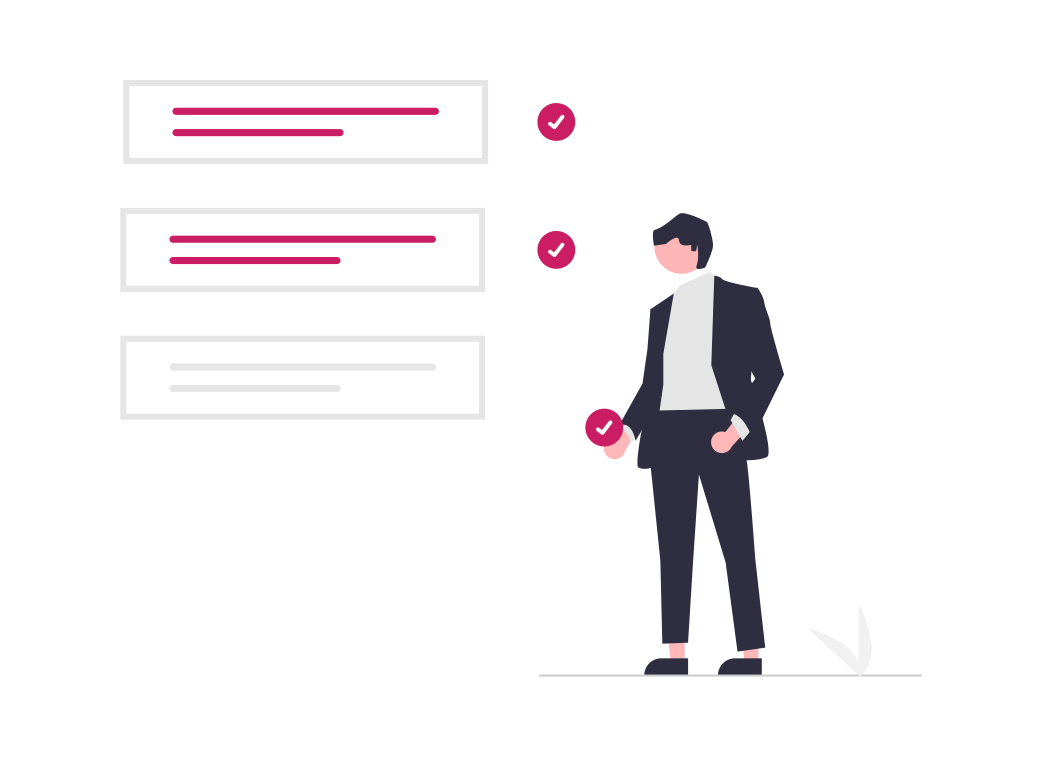
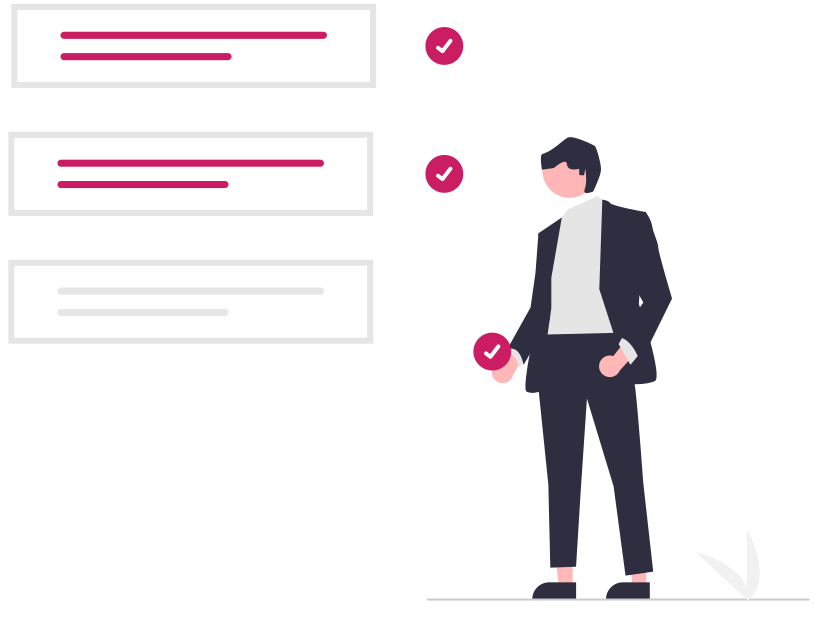
building serach bar and styling authpage

Changed region(s): [[0.0, 0.0, 0.5835, 0.5739], [0.5221, 0.2114, 1.0, 0.9666]]

diff --git a/app/signIn/page.tsx b/app/signIn/page.tsx
@@ -12,6 +12,8 @@ import { useRouter } from 'next/navigation';
 import toast, { Toaster } from 'react-hot-toast'
 import axios from 'axios';
 import { signIn } from 'next-auth/react';
+import Image from 'next/image';
+import authImage from '../assets/issue tracker.png'
 
 
 type signUpFormData = z.infer<typeof signUpFormSchema>
@@ -59,9 +61,13 @@ const AuthForm = () => {
 
     return (
         <>
-            < Grid columns={{ initial: '1', md: '2' }}>
-                <div className='hidden lg:inline-grid'>
-                    <div> ghddhdshbsdnsdff</div>
+            < Grid columns={{ initial: '1', md: '2' }} gap={'10'}>
+                <div className='hidden lg:grid lg:grid-cols-[2rem, 8fr]'>
+                    <Image
+                        src={authImage}
+                        width={500}
+                        height={500}
+                        alt='add new issue page' />
                 </div>
                 <div className='flex justify-center items-center content-center'>
                     <Tabs.Root
@@ -70,10 +76,10 @@ const AuthForm = () => {
                     >
                         <GoogleSignInButton>SignIn with Google</GoogleSignInButton>
 
-                        <div className='relative flex mb-4 items-center'>
-                            <div className='flex-grow border-t border-gray-400'></div>
-                            <span className='flex-shrink mx-2 italic text-sm text-gray-400'>or</span>
-                            <div className='flex-grow border-t border-gray-400'></div>
+                        <div className='relative flex  px-10 mb-4 items-center'>
+                            <div className='flex-grow border-t border-gray-300'></div>
+                            <span className='flex-shrink mx-2 italic text-sm text-gray-300'>or</span>
+                            <div className='flex-grow border-t border-gray-300'></div>
                         </div>
 
                         <Tabs.List className="flex transition-all duration-200" aria-label="Manage your account">

diff --git a/app/issues/issueList/page.tsx b/app/issues/issueList/page.tsx
@@ -3,7 +3,9 @@ import { PrismaClient, Status } from '@prisma/client'
 import IssueActions from './IssueActionButtons'
 import Pagination from '@/app/components/Pagination'
 import IssueTable, { columnNames, IssueQuery } from './IssueTable'
-import { Flex } from '@radix-ui/themes'
+import { Box, Flex, Grid } from '@radix-ui/themes'
+import issueListImage from '../../assets/completed.png'
+import Image from 'next/image'
 
 const prisma = new PrismaClient()
 
@@ -48,11 +50,20 @@ const IssuesPage = async ({ searchParams }: Props) => {
   })
 
   return (
-    <Flex direction={'column'} gap={'4'} className='max-w-xl'>
-      <IssueActions />
-      <IssueTable searchParams={searchParams} issues={issues} />
-      <Pagination itemCount={issueCount} currentPage={page} pageSize={pageSize} />
-    </Flex>
+    <Grid columns={{ initial: '1', md: '2' }} className='p-7'>
+      <Flex direction={'column'} gap={'4'} className='max-w-2xl'>
+        <IssueActions />
+        <IssueTable searchParams={searchParams} issues={issues} />
+        <Pagination itemCount={issueCount} currentPage={page} pageSize={pageSize} />
+      </Flex>
+      <Flex className='lg:hidden object-contain justify-center items-center ml-12'>
+        <Image
+          src={issueListImage}
+          width={500}
+          height={500}
+          alt='add new issue page' />
+      </Flex>
+    </Grid>
   )
 }
 

diff --git a/app/NavBar.tsx b/app/NavBar.tsx
@@ -7,8 +7,7 @@ import { usePathname } from 'next/navigation';
 import React from 'react'
 import { GoIssueTracks } from "react-icons/go";
 import { Skeleton } from '@/app/components';
-import { RxAvatar } from "react-icons/rx";
-
+import SearchBar from './components/SearchBar';
 
 
 const NavBar = () => {
@@ -21,6 +20,7 @@ const NavBar = () => {
                         <Link href="/"><GoIssueTracks style={{ fill: 'var(--accent-9)' }} /></Link>
                         <NavLinks />
                     </Flex>
+                    <SearchBar />
                     <AuthStatus />
                 </Flex>
             </Container>
@@ -54,7 +54,7 @@ const AuthStatus = () => {
     //access auth session, i.e signin signout
     const { status, data: session } = useSession();
 
-    if (status === 'loading') return <Skeleton width={'2rem'} height={'2rem'} borderRadius={'100%'} />;
+    if (status === 'loading') return <Skeleton width={'2rem'} height={'1rem'} />;
 
 
     return (

diff --git a/app/issues/[id]/loading.tsx b/app/issues/[id]/loading.tsx
@@ -4,8 +4,8 @@ import { Skeleton } from '@/app/components'
 
 const loadingIssueDetailsPage = () => {
     return (
-        <Box className='max-w-xl'>
-            <Skeleton />
+        <Box className='max-w-xl p-7'>
+            < Skeleton />
             <Flex gap='3' my='2'>
                 {/* bagde */}
                 <Skeleton width='5rem' />
@@ -15,7 +15,7 @@ const loadingIssueDetailsPage = () => {
             <Card className='prose' mt='4'>
                 <Skeleton count={3} />
             </Card>
-        </Box>
+        </Box >
     )
 }
 

diff --git a/app/issues/new/page.tsx b/app/issues/new/page.tsx
@@ -18,12 +18,14 @@ const newIssuePage = () => {
   return (
     <Grid columns={{ initial: '1', md: '2' }}>
       <IssueForm />
-      <Image className='justify-left items-right align-middle'
-        src={newIssueImage}
-        width={500}
-        height={500}
-        alt='add new issue page'
-      />
+      <div className='justify-left items-right align-middle object-contain'>
+        <Image
+          src={newIssueImage}
+          width={500}
+          height={500}
+          alt='add new issue page'
+        />
+      </div>
     </Grid>
 
   )

diff --git a/app/page.tsx b/app/page.tsx
@@ -20,7 +20,7 @@ export default async function Home() {
   const closed = await prisma.issue.count({ where: { status: 'CLOSED' } })
 
   return (
-    <>
+    <div className='p-7'>
       <Heading mb={'8'}>Welcome{session && <Em>{`, ${session.user!.name}`}</Em>}</Heading>
       {/* <IssuePieChart open={open} inProgress={inProgress} closed={closed}/> */}
       <Grid columns={{ initial: '1', md: '2' }} gap={'5'}>
@@ -30,6 +30,6 @@ export default async function Home() {
         </Flex>
         <LatestIssues />
       </Grid>
-    </>
+    </div>
   )
 }

diff --git a/app/components/SearchBar.tsx b/app/components/SearchBar.tsx
@@ -1,0 +1,17 @@
+import { TextField } from '@radix-ui/themes'
+import React from 'react'
+import { HiMiniMagnifyingGlass } from "react-icons/hi2";
+
+const SearchBar = () => {
+    return (
+        <div className='flex-grow mx-32'>
+            <TextField.Root placeholder="Search issues…">
+                <TextField.Slot>
+                    <HiMiniMagnifyingGlass height="16" width="16" />
+                </TextField.Slot>
+            </TextField.Root>
+        </div>
+    )
+}
+
+export default SearchBar

diff --git a/app/issues/_components/IssueFormSkeleton.tsx b/app/issues/_components/IssueFormSkeleton.tsx
@@ -4,10 +4,10 @@ import { Skeleton } from '@/app/components';
 
 const IssueFormSkeleton = () => {
     return (
-        <Box className='max-w-xl'>
-            <Skeleton height='3rem' />
-            <Skeleton height="20rem" />
-        </Box>
+        <Box className='max-w-xl p-7'>
+            < Skeleton height = '3rem' />
+                <Skeleton height="20rem" />
+        </Box >
     )
 }
 

diff --git a/app/issues/_components/IssueForm.tsx b/app/issues/_components/IssueForm.tsx
@@ -46,7 +46,7 @@ const IssueForm = ({ issue }: Props) => {
     const [isSubmitting, setIsSubmitting] = useState(false);
 
     return (
-        <div className='max-w-xl'>
+        <div className='max-w-xl p-7'>
             {error && <Callout.Root color='red' className='mb-5' >
                 <Callout.Icon>
                     <IoInformationCircleOutline />

diff --git a/app/issues/[id]/page.tsx b/app/issues/[id]/page.tsx
@@ -33,7 +33,7 @@ const IssueDetailsPage = async ({ params }: Props) => {
 
     return (
         //apply 
-        <Grid columns={{ initial: '1', sm: '5' }} gap='5'>
+        <Grid columns={{ initial: '1', sm: '5' }} gap='5' className='p-7'>
             <Box className='md:col-span-4'>
                 <IssueDetails issue={issue} />
             </Box>

diff --git a/app/layout.tsx b/app/layout.tsx
@@ -34,7 +34,7 @@ export default function RootLayout({
             <Theme accentColor="crimson" scaling="100%" hasBackground={false}>
               <Pathname />
               {/* contains page.tsx */}
-              <main className='p-5'>
+              <main>
                 <Container>
                   {children}
                 </Container>

diff --git a/app/issues/issueList/loading.tsx b/app/issues/issueList/loading.tsx
@@ -9,7 +9,7 @@ const loadingIssuePage = () => {
     const issues = [1, 2, 3, 4, 5]
 
     return (
-        <Flex direction={'column'} gap={'4'} className='max-w-2xl'>
+        <Flex direction={'column'} gap={'4'} className='max-w-2xl p-7'>
             <IssueActions />
             <Table.Root variant='surface'>
                 <Table.Header>
